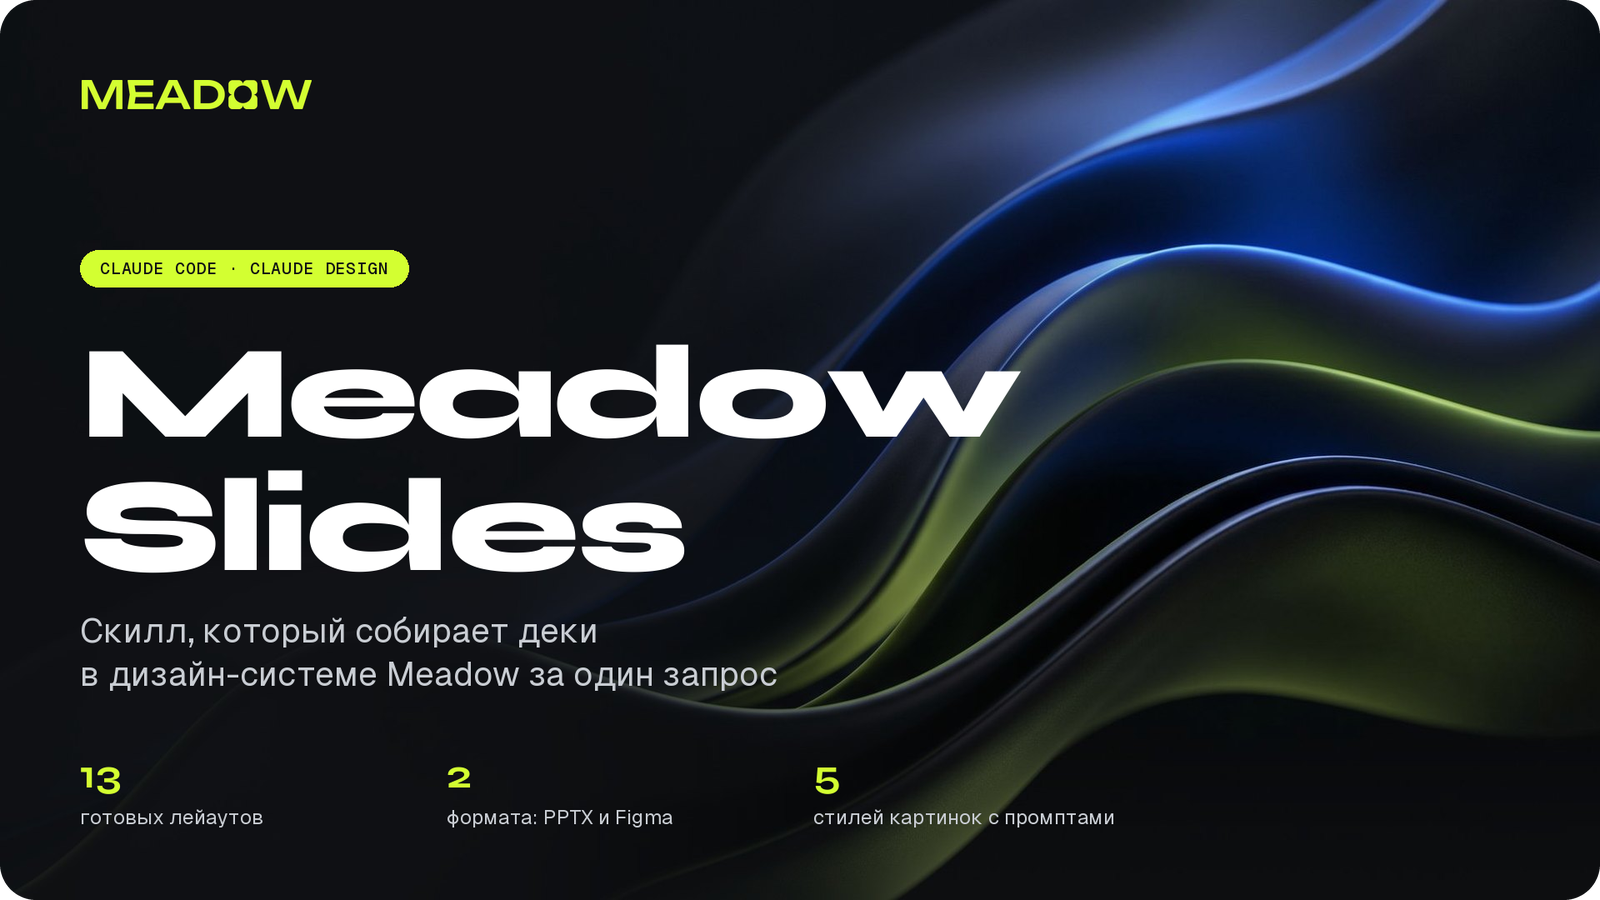
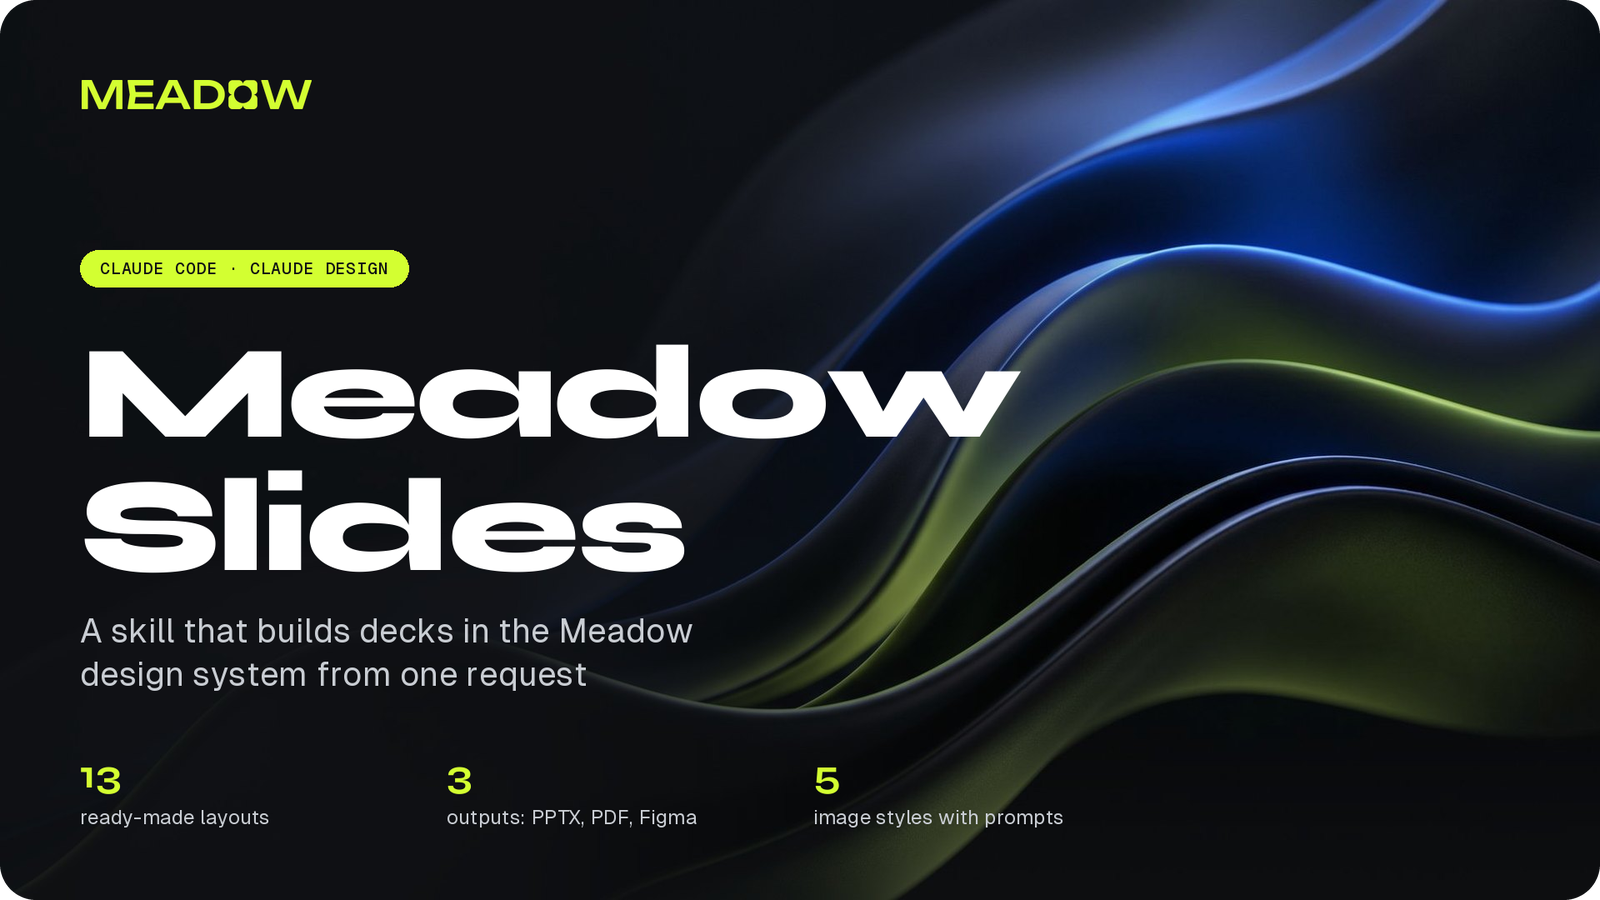
English examples: sample deck, layouts reference, README prompts; skill-intro deck in English for README images

diff --git a/plugins/meadow-design/skills/meadow-slides/references/layouts.md b/plugins/meadow-design/skills/meadow-slides/references/layouts.md
@@ -4,8 +4,8 @@ A deck is one JSON file:
 
 ```json
 {
-  "title": "Креаторская кампания",   // file metadata
-  "lang": "ru",                      // optional; auto: any Cyrillic -> ru
+  "title": "Creator campaign",       // file metadata
+  "lang": "en",                      // optional; auto: any Cyrillic -> ru
   "footer": true,                    // logo + page counter on content slides
   "slides": [ { "layout": "cover", ... }, ... ]
 }
@@ -24,29 +24,29 @@ Copy budgets below are what fits at the designed size. Over budget, the script w
 Full-bleed image, logo, optional lime chip, huge title, subtitle, up to 4 stats along the bottom.
 ```json
 {"layout":"cover","background":"wave-05","scrim":"left",
- "chip":"UGC · вертикальные видео","title":"Креаторская кампания",
- "subtitle":"Поток коротких видео от реальных авторов",
- "stats":[{"value":"10 000+","label":"авторов в подборке"},
-          {"value":"3","icons":["instagram","tiktok","youtube"],"label":"площадки"}]}
+ "chip":"UGC · vertical video","title":"Creator campaign",
+ "subtitle":"A steady stream of short videos from real creators",
+ "stats":[{"value":"10,000+","label":"creators to choose from"},
+          {"value":"3","icons":["instagram","tiktok","youtube"],"label":"platforms"}]}
 ```
 Title ≤ 2 short lines (`title_size` defaults to 160). Subtitle ≤ 2 lines. `scrim`: `left`
 (default: dark behind the copy), `bottom`, `full`, or `null` for a dark image.
 
 ## section
 Divider between parts of a long deck: image, eyebrow, 112px title, subtitle.
-`{"layout":"section","background":"wave-02","eyebrow":"Часть 2","title":"Кейсы","subtitle":"…"}`
+`{"layout":"section","background":"wave-02","eyebrow":"Part 2","title":"Case studies","subtitle":"…"}`
 
 ## statement
 One big sentence (96px) + an optional paragraph. Use it for a thesis, a promise, a quote from the brief.
-`{"layout":"statement","eyebrow":"Почему сейчас","title":"…","text":"…"}`
+`{"layout":"statement","eyebrow":"Why now","title":"…","text":"…"}`
 
 ## text-cards
 The two-column intro slide. Header, 1–2 text columns, then 1–3 cards side by side.
 ```json
-{"layout":"text-cards","eyebrow":"Что такое контент-завод","title":"…",
- "columns":["Абзац слева","Абзац справа"],
- "cards":[{"title":"Почему это работает","rows":["Объём","Регулярность"],"note":"…"},
-          {"title":"Почему Meadow","accent":"lime","bullets":["…","…"]}]}
+{"layout":"text-cards","eyebrow":"The approach","title":"…",
+ "columns":["Left paragraph","Right paragraph"],
+ "cards":[{"title":"Why it works","rows":["Volume","Consistency"],"note":"…"},
+          {"title":"Why Meadow","accent":"lime","bullets":["…","…"]}]}
 ```
 Columns ≤ 4 lines each. Cards (all layouts) accept: `number`, `label`, `value` (Syne KPI),
 `title`, `text`, `rows` (numbered dark rows), `bullets`, `note`, `image`, `accent` (`"lime"`,
@@ -55,14 +55,14 @@ or `"blue"` only when someone asks for blue).
 ## cards
 Header, optional intro, a grid of 2–8 cards (columns auto: ≤4 in one row, 5/6/9 → 3 columns,
 else 4; force with `columns_count`). Use it for formats, offers, features, team, numbered benefits.
-`{"layout":"cards","eyebrow":"Форматы","title":"…","intro":"…","cards":[{"number":"01","title":"…","text":"…"}]}`
+`{"layout":"cards","eyebrow":"Formats","title":"…","intro":"…","cards":[{"number":"01","title":"…","text":"…"}]}`
 
 ## steps
 The process slide. Numbered step cards (auto 4 per row) plus an optional callout plate:
 ```json
-{"layout":"steps","eyebrow":"Процесс","title":"Как это работает",
- "steps":["Подбор креаторов по брифу", {"title":"Отчётность","text":"еженедельно"}],
- "callout":{"value":"2","label":"ролика на согласование","title":"…","text":"…","accent":"lime"}}
+{"layout":"steps","eyebrow":"Process","title":"How it works",
+ "steps":["Creator match from the brief", {"title":"Reporting","text":"weekly"}],
+ "callout":{"value":"2","label":"videos to approve","title":"…","text":"…","accent":"lime"}}
 ```
 Columns auto: 5 → one row of 5, 6 → 3+3, 7 → 4+3, 8 → 4+4. Override with `columns_count`.
 Step titles ≤ 3 lines of ~22 characters at 4 per row. Up to 8 steps. With one- or two-word
@@ -73,10 +73,10 @@ where possible, and tell them which lines you wrote.
 The offer/package slide. Lime plate with 3 big + up to 4 small dark KPI tiles, a note line, and an
 optional strip of next steps under the plate.
 ```json
-{"layout":"kpi","eyebrow":"Минимальный пакет","title":"Старт сотрудничества",
- "tiles":[{"label":"Бюджет","value":"$5 000","caption":"в месяц"}, …],
- "note_left":"Права на ролики — бессрочно","note_right":"Есть пакеты больше",
- "steps_title":"Готовы начать?","steps_text":"Пять шагов до публикаций","steps":["Договор","Подбор", …]}
+{"layout":"kpi","eyebrow":"Starter package","title":"Getting started",
+ "tiles":[{"label":"Budget","value":"$5,000","caption":"per month"}, …],
+ "note_left":"Video rights in perpetuity","note_right":"Larger packages available",
+ "steps_title":"Ready to start?","steps_text":"Five steps to the first posts","steps":["Contract","Match", …]}
 ```
 Values are set in Syne, so keep them to digits, `$`, `%`, `K`, `M`, `+`. Labels are Geist Mono caps.
 
@@ -84,25 +84,25 @@ Values are set in Syne, so keep them to digits, `$`, `%`, `K`, `M`, `+`. Labels 
 The case-study slide. Left: 2–3 dark blocks (text or a facts table). Right: lime result plate
 with a big number, unit, caption + badge, a bar chart, and up to 3 KPI tiles.
 ```json
-{"layout":"case","eyebrow":"Кейс 01 · Beauty","title":"…",
- "blocks":[{"label":"Задача","text":"…"},
-           {"facts":[["Период","3 месяца"],["Бюджет","$5 000 в месяц"]]},
-           {"label":"Что сделали","text":"…"}],
- "result":{"label":"Результат за 3 месяца","value":"1,5","unit":"млн","caption":"просмотров",
-           "badge":"+50% к первому месяцу",
-           "bars":[{"label":"Месяц 1","value":400,"display":"400K"}, …],
-           "tiles":[{"label":"CPM","value":"$10"},{"label":"Роликов","value":"450"}]}}
+{"layout":"case","eyebrow":"Case 01 · Beauty","title":"…",
+ "blocks":[{"label":"Goal","text":"…"},
+           {"facts":[["Period","3 months"],["Budget","$5,000 per month"]]},
+           {"label":"What we did","text":"…"}],
+ "result":{"label":"Result in 3 months","value":"1.5","unit":"M","caption":"views",
+           "badge":"+50% vs month 1",
+           "bars":[{"label":"Month 1","value":400,"display":"400K"}, …],
+           "tiles":[{"label":"CPM","value":"$10"},{"label":"Videos","value":"300"}]}}
 ```
 Bars: 2–6, `value` numeric (heights are proportional), `display` is what's printed.
 
 ## table
 Header + table; `highlight_column` turns one column into the lime plate (e.g. "Meadow" in a
 package comparison). `widths` are relative.
-`{"layout":"table","title":"…","columns":["","Start","Pro"],"rows":[["Креаторы","6","15"]],"highlight_column":2}`
+`{"layout":"table","title":"…","columns":["","Start","Pro"],"rows":[["Creators","6","15"]],"highlight_column":2}`
 Up to ~8 rows.
 
 ## quotes
-1–3 testimonial cards: `{"layout":"quotes","title":"Клиенты о нас","quotes":[{"text":"…","author":"…","role":"…","logo":"path.png"}]}`
+1–3 testimonial cards: `{"layout":"quotes","title":"What clients say","quotes":[{"text":"…","author":"…","role":"…","logo":"path.png"}]}`
 Only with quotes the user supplied.
 
 ## image-text
@@ -117,9 +117,9 @@ the dark canvas, no tiles behind them). `columns_count` defaults to 6.
 Closing slide: a photo held on the right and fading into the canvas (or a wide image
 full-bleed), logo, big title, subtitle, pill buttons with links. The first button is the lime one.
 ```json
-{"layout":"contacts","background":"people-02-camera-blue","title":"Готовы запустить?",
- "subtitle":"Напишите нам — обсудим задачу","buttons":[{"label":"Сайт · mymeadow.ai","url":"https://mymeadow.ai"},
- {"label":"Бриф"}]}
+{"layout":"contacts","background":"people-02-camera-blue","title":"Ready to launch?",
+ "subtitle":"Write to us and we'll scope the task","buttons":[{"label":"Site · mymeadow.ai","url":"https://mymeadow.ai"},
+ {"label":"Brief"}]}
 ```
 Buttons without a `url` get no ↗ arrow.
 Don't invent contact addresses: leave `url` out and tell the user which buttons need links.

diff --git a/README.md b/README.md
@@ -11,8 +11,9 @@ Brand skills for Claude, shared across the team. They work in **Claude Code** an
 
 <img src="docs/preview.png" alt="Six slides from a deck the skill built" width="100%">
 
-Just ask in plain words, e.g. *«сделай презу на 6 слайдов про контент-завод для клиента»*,
-*"turn this brief into a Meadow deck"*, *«промпты для обложки в стиле Meadow»*.
+Just ask in plain words, e.g. *"make a 6-slide client deck about our content factory"*,
+*"turn this brief into a Meadow deck"*, *"give me cover image prompts in the Meadow style"*.
+Russian works too.
 
 ## Install: Claude Code
 

diff --git a/plugins/meadow-design/skills/meadow-slides/references/image-prompts.md b/plugins/meadow-design/skills/meadow-slides/references/image-prompts.md
@@ -51,7 +51,7 @@ Save results next to the deck and reference them by path in the spec.
 
 ## Proven scenes (reuse or adapt)
 
-- **Content factory (cover of «Контент-завод»)**, prefix A: "A sleek futuristic content factory
+- **Content factory (the content-factory deck cover)**, prefix A: "A sleek futuristic content factory
   floor seen from a low three-quarter angle: a long glossy black conveyor belt with robotic
   arms and dark-glass inspection gates, carrying a steady stream of vertical 9:16 phone screens
   standing upright like products on an assembly line. Each screen shows a different everyday

diff --git a/plugins/meadow-design/skills/meadow-slides/SKILL.md b/plugins/meadow-design/skills/meadow-slides/SKILL.md
@@ -19,6 +19,7 @@ references/design-system.md  tokens and rules behind the layouts       <- read w
 references/image-prompts.md  prompt library for deck imagery           <- read when the deck needs new images
 references/figma.md      Figma output recipe and its gotchas            <- read only if Figma is wanted
 examples/sample-deck.json      a six-slide deck covering the main layouts (fictional data)
+examples/skill-intro-deck.json the deck that presents this skill (README images)
 ```
 
 ## Workflow
